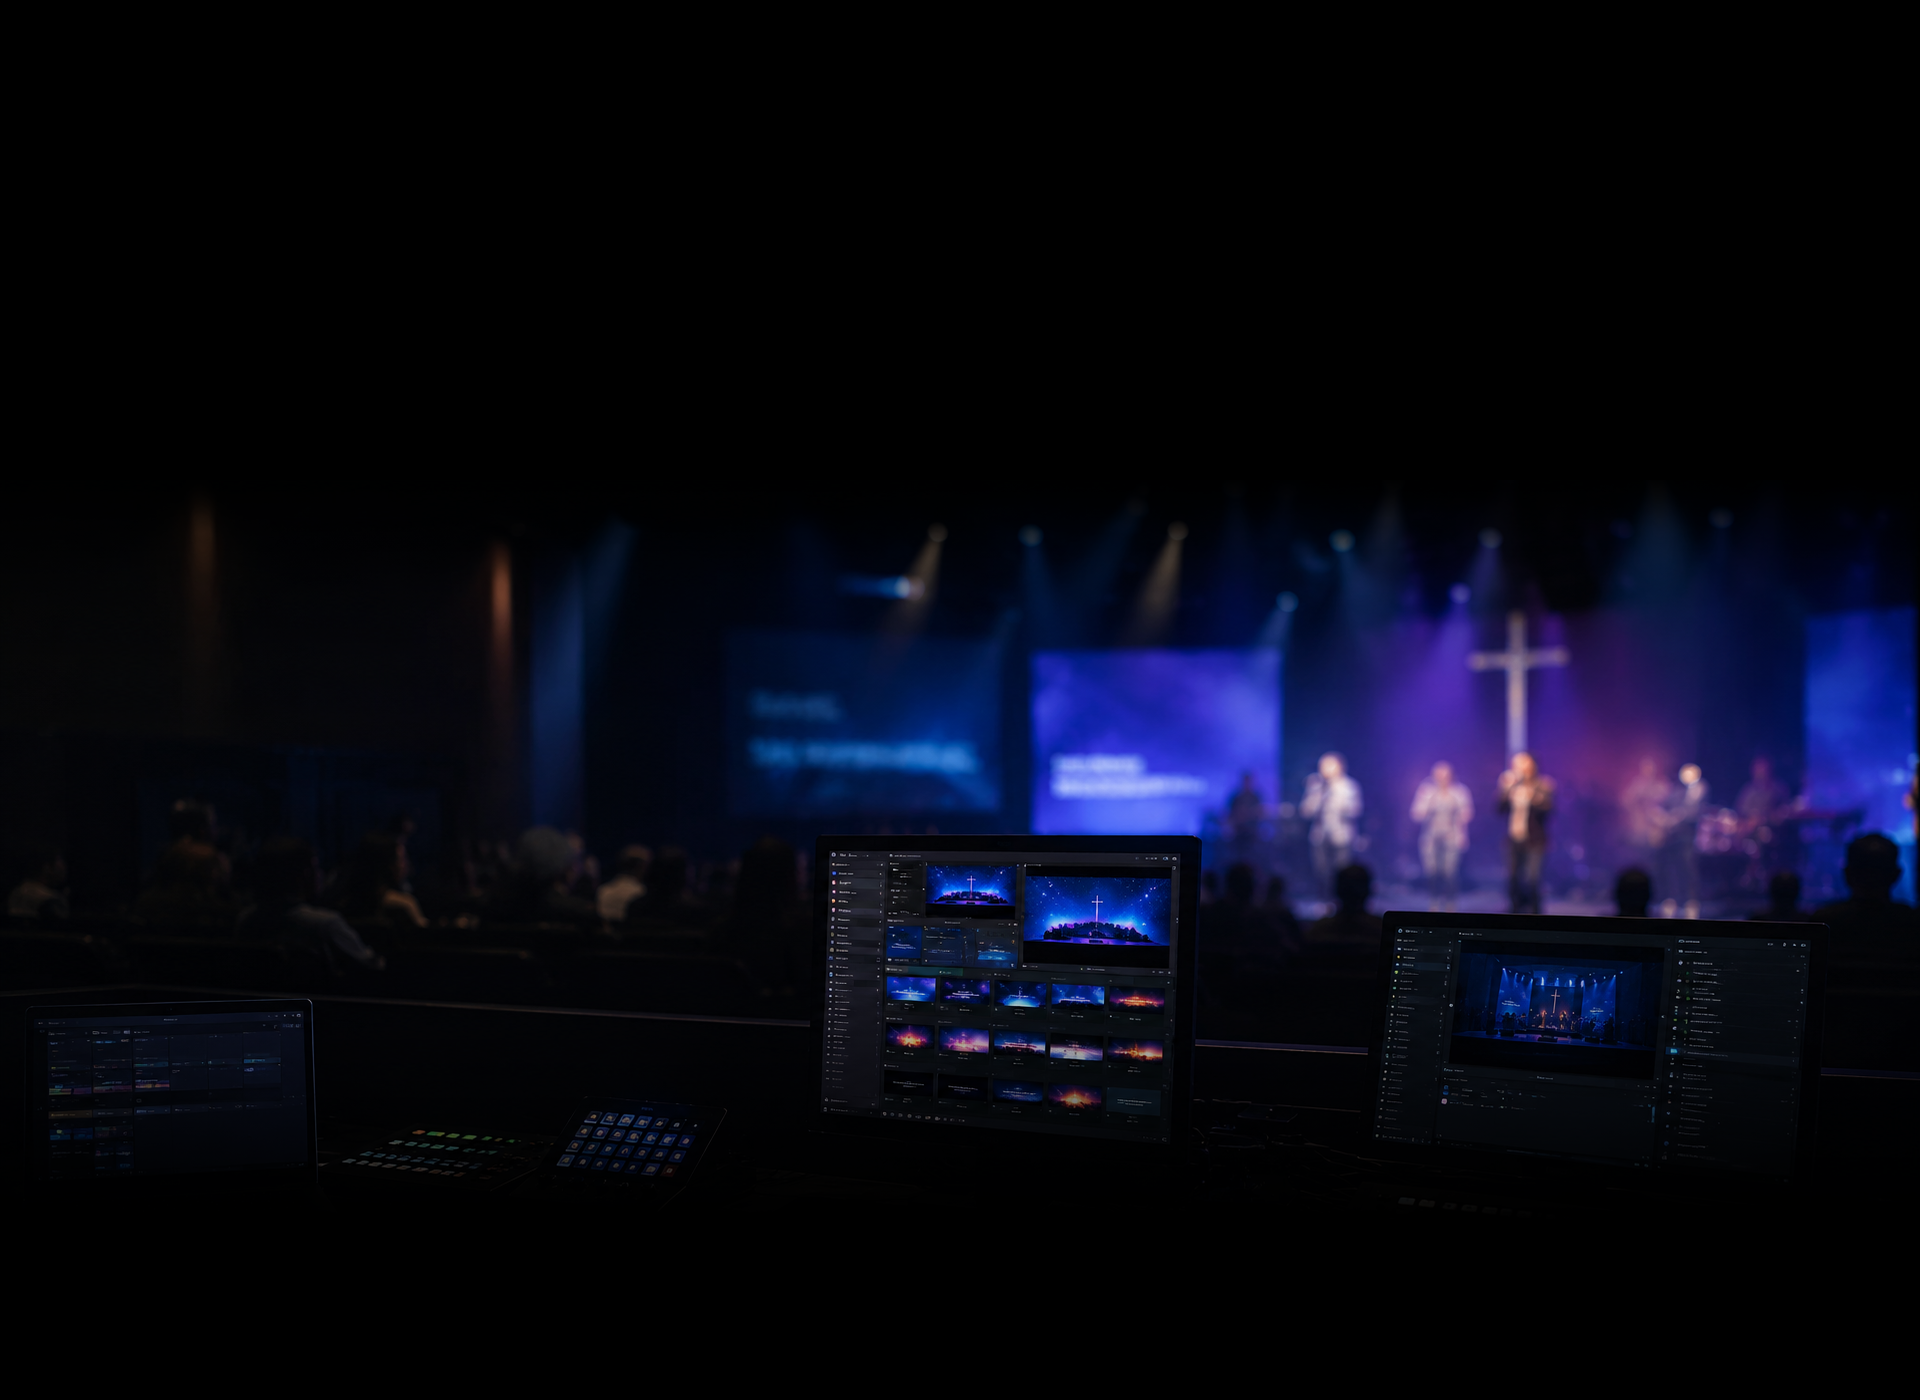
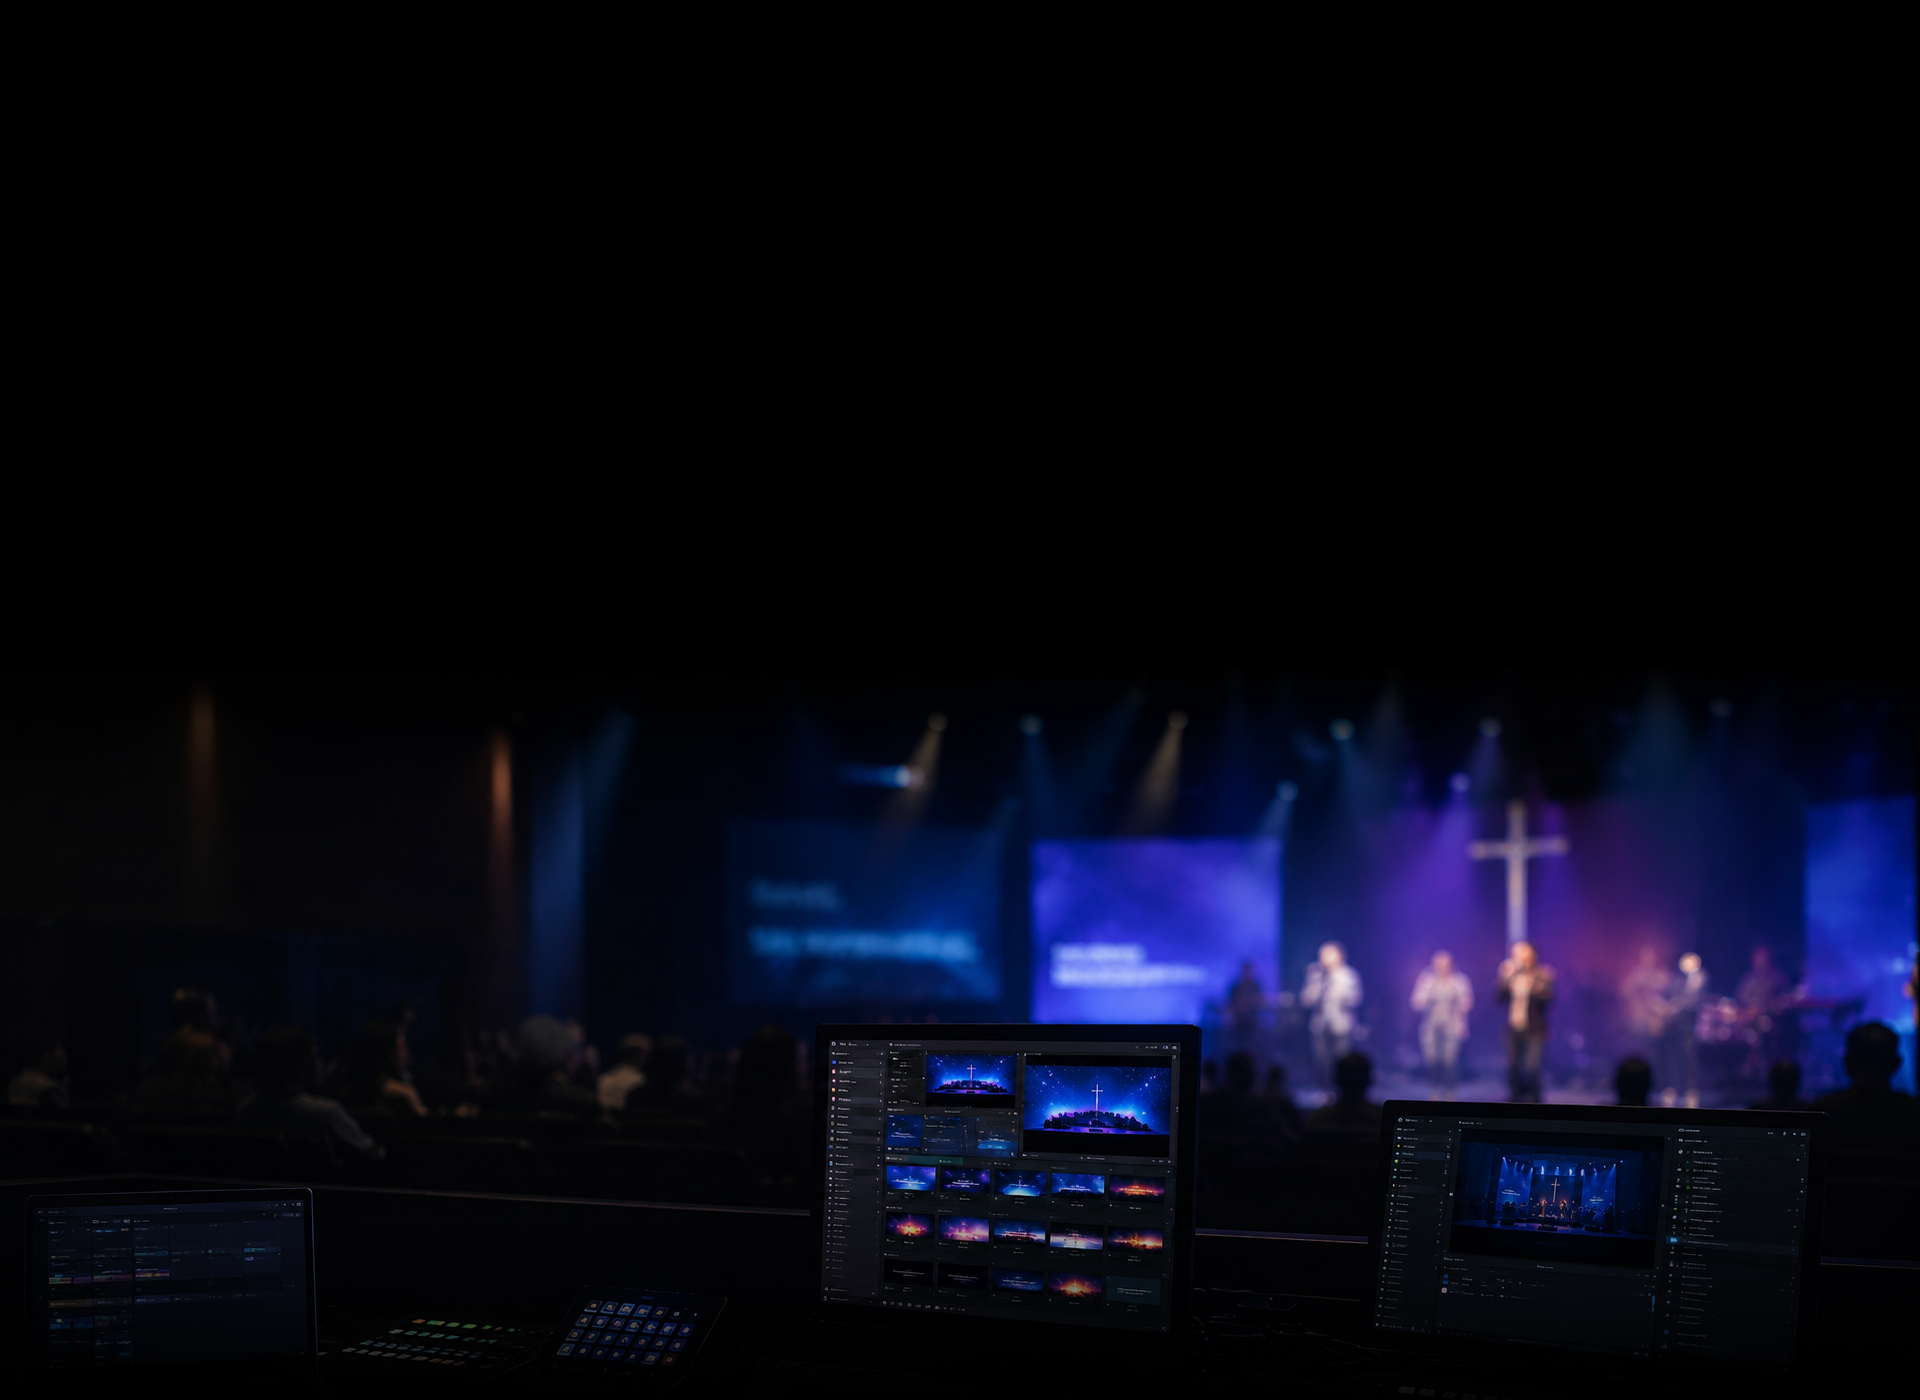
twq
twq

diff --git a/prd/style/brp/pp-set.css b/prd/style/brp/pp-set.css
@@ -1,7 +1,17 @@
 @charset "utf-8";
 /* CSS Document */
 /* General Styles 한글 */ 
-
+.pp-lic-icon{
+  display: flex;
+  gap: 0.5rem;
+  align-items: baseline;
+}
+.s2w-set > img{
+  border-radius:0.5rem;
+}
+.s2w-set{
+  position: relative;
+}
 .bs-q{
   font-size: clamp(2.5rem, 4vw + 1rem, 3.5rem);
 }
@@ -24,17 +34,23 @@
   display:flex;
   flex-direction: column;
   gap: 1rem;
-  padding: 1rem;
+  /* padding: 1rem; */
+  position: relative;
+  align-items: center;
+  justify-content: center;
 }
 .pp-mst{
     display: grid;
     grid-template-columns: 1fr 1fr 1fr 1fr;
     gap: 1rem;
     color: #f1f1f1;
+    width: 80%;
+    margin: 0 auto;
+    text-align: center;
 }
 .pp-mst > li{
-  padding:1rem;
-  border: 1px solid #646464;
+  padding: 1.5rem 0.5rem;
+  border: 1px solid #373737;
   border-radius: 0.5rem;
   overflow-wrap: break-word;
 }
@@ -162,7 +178,7 @@
           background: linear-gradient(0deg, #111111 0%, #0a002f 100%);
           box-shadow: 0 10px 24px rgba(0, 0, 0, 0.08);
           width: 100%;
-          padding: 5rem clamp(1rem, 4vw, 5rem);
+          padding: 5rem clamp(2rem, 4vw, 5rem);
           display: flex;
           flex-direction: column;
           /* width: 100%; */
@@ -1778,42 +1794,22 @@ background: #f3f4f6;
 border: 1px solid #e5e7eb;
 }
 
-@media (max-width: 768px) {
-.pp-compare-table {
-font-size: 0.9rem;
-}
-
-.pp-compare-table thead th,
-.pp-compare-table tbody td {
-padding: 0.75rem 0.65rem;
-}
-}
-
-
-
-@media (max-width:520px){
-#dicont .offer-card{
-grid-template-columns:1fr;
-text-align:center;
-display: flex;
-flex-direction: column;
-width: 100%;
-align-items: center;
-}
-#dicont .offer-info{ border-left: none; padding-left:0; }
-#dicont .offer-price{ justify-content:center; }
-}
-
-
 
 
 @media screen and (max-width: 1024px) {
+  .pkg-price-label{
+    font-size:1.25rem;
+  }
+  .pp-lic-icon{
+    justify-content: center;
+  }
   .pp-wst > li{
     padding:2rem 1rem;
   }
   .pp-mst,
   .pp-list{
    grid-template-columns: repeat(3, minmax(0, 1fr));
+   width: 100%;
   }
   .qx-c > div > div{
     width: 60%;
@@ -1904,11 +1900,35 @@ font-size: calc(1.5rem + 2.25vw);
 #container section:nth-child(n+1) > div {
 padding: 3rem 1rem;
 }
+  
+.pp-compare-table {
+font-size: 0.9rem;
+}
 
+.pp-compare-table thead th,
+.pp-compare-table tbody td {
+padding: 0.75rem 0.65rem;
+}
+  
+#dicont .offer-card{
+grid-template-columns:1fr;
+text-align:center;
+display: flex;
+flex-direction: column;
+width: 100%;
+align-items: center;
+}
+#dicont .offer-info{ border-left: none; padding-left:0; }
+#dicont .offer-price{ justify-content:center; }
+
+#container .bas{top: 20%;gap: 1rem;/* text-align: left; */}
 }
 
 
-
-@media screen and (max-width: 720px) {
-#container .bas{top: 20%;gap: 1rem;/* text-align: left; */}
+@media screen and (min-width: 1025px) {
+.s2w-set > img{filter: brightness(60%);}
+.pp-mst > li img{width: 50%;}
+.pp-mst{position: absolute;}
+.pp-mst > li{background: #000000c7;}
+  
 }
